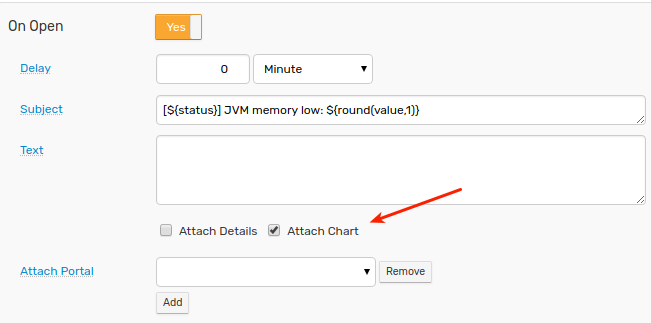
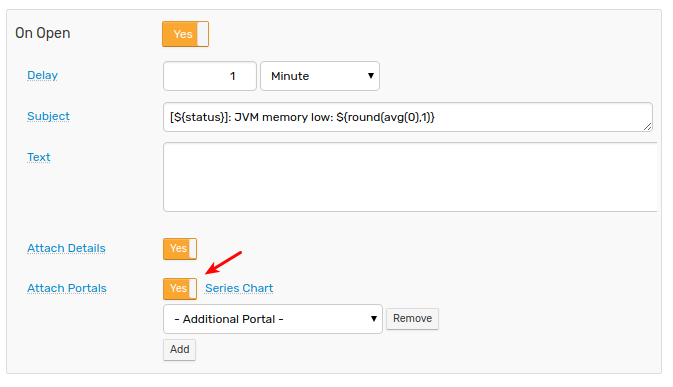
functions-portal.md and email.md are up-to-date

diff --git a/rule-engine/email.md b/rule-engine/email.md
@@ -4,16 +4,23 @@ The email action enables delivery of messages to one or multiple email subscribe
 
 The notification can be triggered when the window changes its status as well as at a scheduled interval while its status is `REPEAT`.
 
+## Email Client
+
+Messages generated by the rule engine are handled over to the built-in [mail client](../administration/setting-up-email-client.md) which is accessible on the **Settings > Mail Client** page.
+
+The client settings apply to all outgoing messages.
+
 ## Configuring Notifications
 
 To receive notifications from a given rule, open the `Email Notifications` tab in the rule editor.
 
 Set status to `Enabled` and enter one or multiple email addresses, separated by comma, semi-colon or whitespace.
 
-Click 'Enabled' for each trigger (`OPEN`, `REPEAT`, `CANCEL`) that you would like to subscribe to and customize the Subject text using [placeholders](placeholders.md).
+Click 'Enabled' for each trigger (`OPEN`, `REPEAT`, `CANCEL`) that you would like to subscribe to.
+
+Uncheck *Same as 'On Open'* to customize the *Subject* and *Text* using [placeholders](placeholders.md).
 
 For the `REPEAT` status, adjust the 'Repeat Interval' to the desired notification frequency, for example, 6 hours.
-
 
 ![](images/email_config_all.png)
 
@@ -24,7 +31,6 @@ For the `REPEAT` status, adjust the 'Repeat Interval' to the desired notificatio
 | Enabled | Enable or disable the configuration. |
 | Name | User-defined email configuration name. Each rule can have multiple configurations which are executed independently based on status changes. |
 | Recipients | One or multiple email subscribers receiving the message. Use a comma or semi-colon to separate multiple addresses. |
-| Use In Overrides Only | If set to `Yes`, the configuration will be activated only for override conditions specified on the `Overrides` tab. |
 | Priority | Message priority to classify messages in commonly used email clients: `Low`, `Normal`, `High`. |
 | Merge Messages | Merge multiple notifications from different rules into one email for the same subscriber to prevent too many emails arriving within a short time span. Note that the message Subject is redefined for merged emails and reflects rule names, metric names, and the total number of merged notifications in the given message. For example: `Alerts(2)-cpu_busy: statistical-time, nmon_cpu`. |
 | Minimum Notification Interval | Minimum interval between messages to prevent too many email messages generated by the rule. The rule engine will discard messages that are generated by the rule before the specified interval from the last sent message expires. |
@@ -38,7 +44,7 @@ For the `REPEAT` status, adjust the 'Repeat Interval' to the desired notificatio
 | Subject | Custom subject text for each status separately. List of supported placeholders is provided below. In addition to built-in placeholders you can use expressions containing built-in functions, for example: `${round(threshold_linear_time(99))/60}` or `${round(avg())}` |
 | Text | Custom message text for each status separately. List of supported placeholders is provided below. In addition to built-in placeholders, you can use expressions containing built-in functions. For example: `${round(threshold_linear_time(99))/60}` or `${round(avg())}`. |
 | Attach Details | Include a table containing series statistics and action links. |
-| Attach Screenshot | Attach a time chart displaying the underlying series.  |
+| Attach Portals | One or more portals that will be attached to notification message. If a portal is a template, placeholders such as entity, metric, tags will be resolved from alert time series key.<br> *Series Chart* - attach a screenshot containing series processed by this rule. |
 
 ## Grouping
 
@@ -65,7 +71,7 @@ The override table below contains rules that will always return `false` for the 
     - Alert fields
     - Command/Event tags
     - User variables
-  - Chart Screenshot
+  - Portal Screenshots
   - Footer
 
 ![](images/email-message-composition-top.png)  
@@ -79,13 +85,13 @@ The subject may include [placeholders](placeholders.md) with expressions substit
 Sample subject:
 
 ```css
-  [${status}] Rule ${rule} for ${entity} ${tags}`
+  [${status}] Rule ${rule} for ${entity} ${tags}
 ```
 
 When using placeholders that maybe replaced with text of arbitrary length, apply the `truncate()` function to limit the subject length.
 
 ```css
-  [${status}] Rule ${rule} for ${entity}: ${truncate(message, 100)}`
+  [${status}] Rule ${rule} for ${entity}: ${truncate(message, 100)}
 ```
 
 The subject can be customized using [control flow](control-flow.md) statements for conditional processing.
@@ -143,9 +149,9 @@ At the end of the table, the links are provided to view extended alert informati
 
 Decimal numbers are rounded to the 5 significant digits for readability.
 
-### Chart Screenshot
+### Portals 
 
-The screenshot features require a [web driver](notifications/web-driver.md) to be installed and configured. To attach default portal for the current metric, entity and tags to outgoing messages, check on the `Attach Chart` option.
+The screenshot features require a [web driver](notifications/web-driver.md) to be installed and configured. To attach default portal for the current metric, entity and tags to outgoing messages, check on the `Series Chart` option.
 
 ![](images/email-screenshot-enable.png)
 
@@ -165,22 +171,18 @@ Similarly, if the rule correlates multiple metrics using [database functions](fu
 
 ![](images/email-screenshot-correlate.png)
 
-To attach other additional portals, specify them at the `Attach Portal` drop-down.
+To attach other additional portals, specify them at the `Additional Portal` drop-down.
 
 ![](images/email-screenshot-portals.png)
 
 If a portal is a [template](../portals/creating-and-assigning-portals.md#template-portals), placeholders such as entity, metric, tags will be resolved from alert time series key.
 
-## Email Client
-
-Messages generated by the rule engine are handled over to the built-in [mail client](../administration/setting-up-email-client.md) which is accessible on the **Settings > Email Client** page.
-
-The client settings apply to all outgoing messages.
-
 ## Monitoring
 
 The number of messages sent per minute can be monitored with the [`email_notifications_per_minute`](../administration/monitoring.md#rule-engine) metric collected by ATSD.
 
+```elm
 https://atsd_host:8443/portals/series?entity=atsd&metric=email_notifications_per_minute
+```
 
 ![](../administration/images/monitor-email.png)

diff --git a/rule-engine/functions-portal.md b/rule-engine/functions-portal.md
@@ -43,7 +43,7 @@ Used with other configurations, the function will evaluate to an empty string.
 
 * No optional parameters
 
-```java
+```javascript
 addPortal('atsd')
 ```
 ![](images/functions-portal-1.png)
@@ -51,7 +51,7 @@ addPortal('atsd')
 
 * Entity is specified
 
-```java
+```javascript
 addPortal('Linux nmon', 'nurswgvml007')
 ```
 ![](images/functions-portal-2.png)
@@ -59,7 +59,7 @@ addPortal('Linux nmon', 'nurswgvml007')
 
 * Entity and comment are specified
 
-```java
+```javascript
 addPortal('collectd', 'nurswgvml007', '$caption | <@' + tags.event.user + '>')
 ```
 ![](images/functions-portal-3.png)
